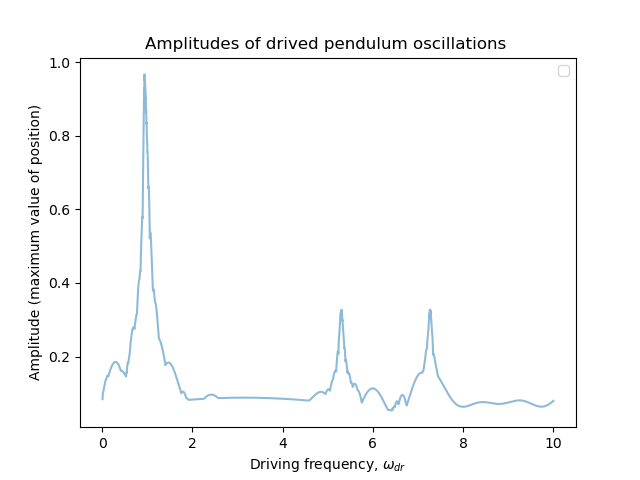
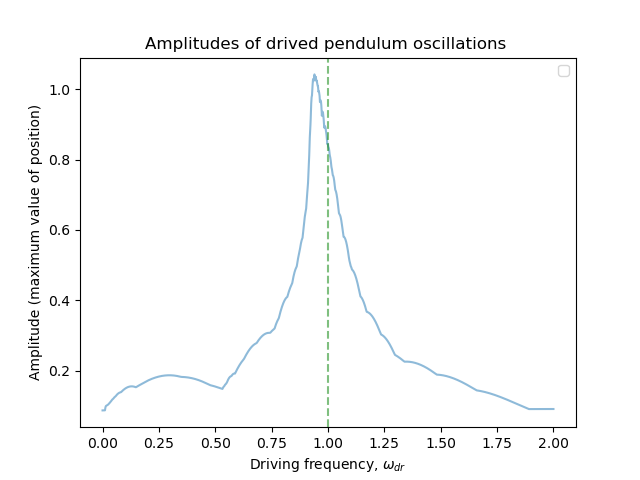
HW6 problem 5 preliminary 2

diff --git a/06/06_04.py b/06/06_04.py
@@ -45,11 +45,11 @@ amps = []
 
 theta0 = 0.1
 
-for omega_dr in np.arange(0.01, 10, 0.001):
+for omega_dr in np.arange(0, 2, 0.001):
 
     a = 0.  # evolve from time a to time b in n steps
     b = 100.
-    n = 100
+    n = 200
     t = a
     h = (b - a) / n
 
@@ -74,6 +74,7 @@ for omega_dr in np.arange(0.01, 10, 0.001):
     amps.append(amp)
 
 plot(drives, amps, alpha=.5)
+axvline(x=1, linestyle ='--', c='green', alpha=.5)
 title('Amplitudes of drived pendulum oscillations ')
 xlabel(r'Driving frequency, $\omega_{dr}$')
 ylabel(r'Amplitude (maximum value of position)')
